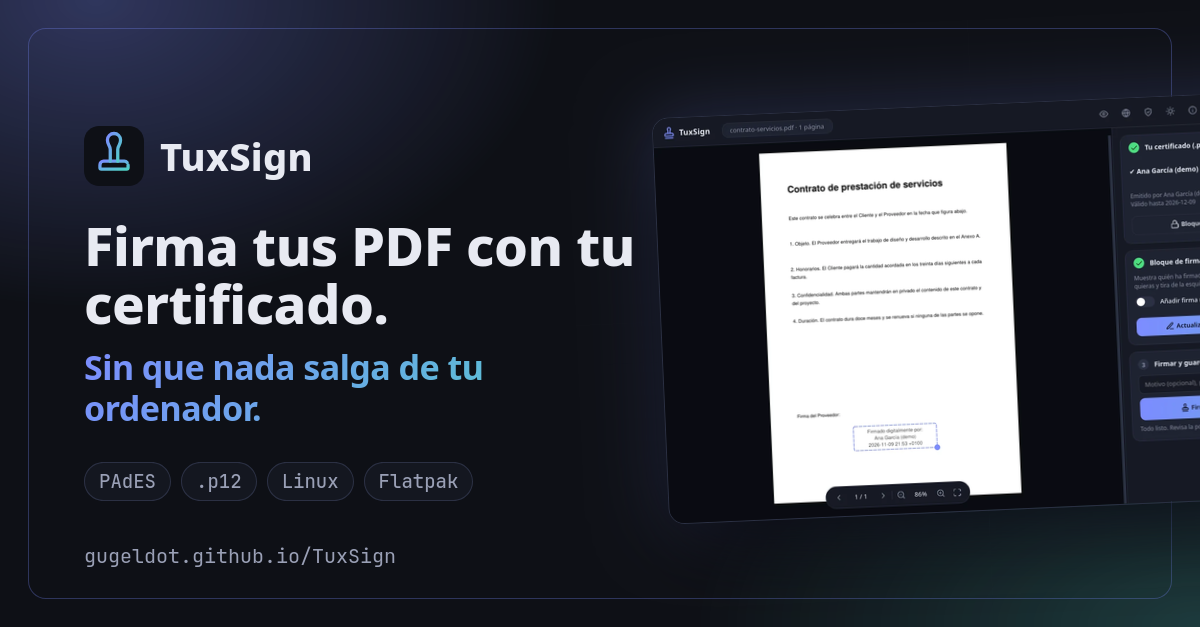
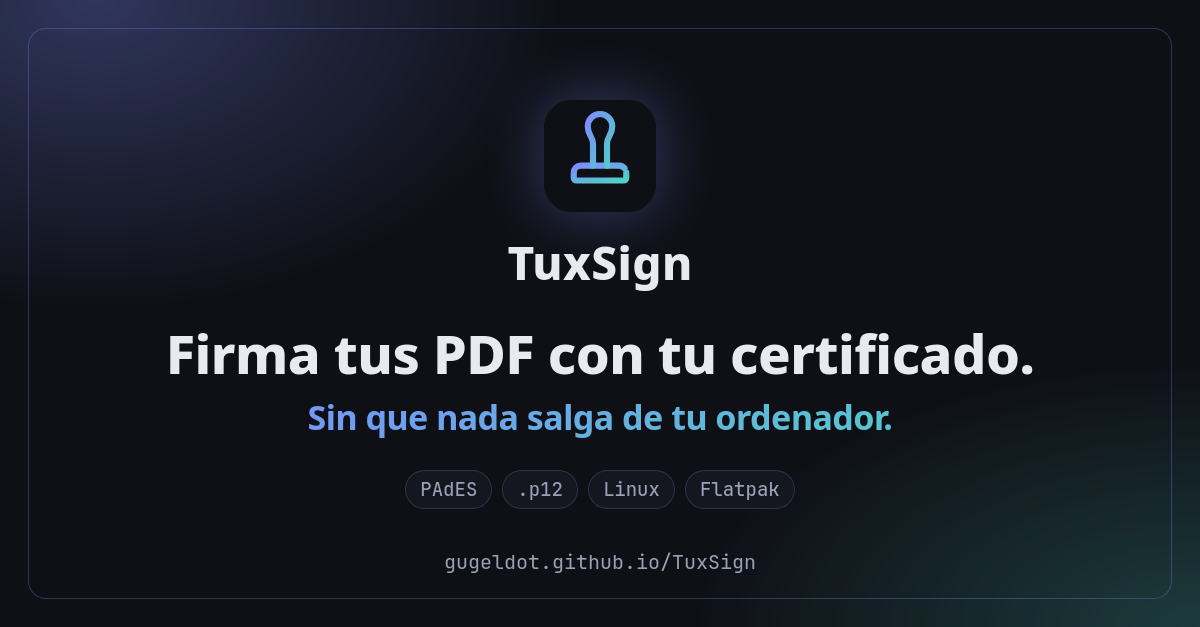
OG image: drop the app screenshot, center the composition

diff --git a/docs/assets/og/src/og-tuxsign.html b/docs/assets/og/src/og-tuxsign.html
@@ -7,23 +7,19 @@ html,body{width:1200px;height:627px;overflow:hidden}
 body{background:var(--bg);color:var(--text);font-family:Inter,'Noto Sans','DejaVu Sans',Arial,sans-serif;position:relative}
 body::before{content:'';position:absolute;inset:0;background:radial-gradient(ellipse 55% 70% at 8% 0%,rgba(124,140,255,.30),transparent 70%),radial-gradient(ellipse 60% 60% at 100% 100%,rgba(79,209,197,.22),transparent 70%)}
 body::after{content:'';position:absolute;inset:28px;border:1px solid rgba(124,140,255,.30);border-radius:18px}
-.col{position:absolute;z-index:2;left:84px;top:0;bottom:0;width:560px;display:flex;flex-direction:column;justify-content:center}
-.brand{display:flex;align-items:center;gap:16px;font-weight:800;font-size:38px;letter-spacing:.3px;margin-bottom:30px}
-.brand img{width:60px;height:60px;border-radius:15px}
-h1{font-size:54px;line-height:1.08;font-weight:800;letter-spacing:-.5px}
+.col{position:absolute;z-index:2;left:0;right:0;top:0;bottom:0;display:flex;flex-direction:column;align-items:center;justify-content:center;text-align:center;padding-bottom:18px}
+.brand{display:flex;flex-direction:column;align-items:center;gap:18px;font-weight:800;font-size:46px;letter-spacing:.4px;margin-bottom:30px}
+.brand img{width:112px;height:112px;border-radius:28px;box-shadow:0 0 60px rgba(124,140,255,.35)}
+h1{font-size:54px;line-height:1.1;white-space:nowrap;font-weight:800;letter-spacing:-.5px}
 h1 span{display:block;margin-top:14px;font-size:34px;line-height:1.2;font-weight:700;background:linear-gradient(135deg,var(--a),var(--b));-webkit-background-clip:text;background-clip:text;color:transparent}
-.tags{display:flex;gap:10px;margin-top:34px;font-family:'JetBrains Mono','DejaVu Sans Mono',monospace;font-size:19px;color:var(--muted)}
+.tags{display:flex;gap:10px;margin-top:32px;justify-content:center;font-family:'JetBrains Mono','DejaVu Sans Mono',monospace;font-size:19px;color:var(--muted)}
 .tags b{font-weight:500;padding:6px 14px;border:1px solid var(--border);border-radius:999px;background:rgba(22,25,35,.8)}
-.url{position:absolute;z-index:2;left:84px;bottom:58px;font-family:'JetBrains Mono','DejaVu Sans Mono',monospace;font-size:20px;color:var(--muted)}
-/* screenshot of the real app, bleeding off the right edge */
-.shot{position:absolute;z-index:1;left:660px;top:104px;width:640px;height:407px;border-radius:16px;border:1px solid var(--border);overflow:hidden;box-shadow:0 40px 90px -20px rgba(0,0,0,.8),0 0 70px rgba(124,140,255,.22);transform:rotate(-2.5deg)}
-.shot img{display:block;width:100%;height:100%;object-fit:cover;object-position:left top}
+.url{position:absolute;z-index:2;left:0;right:0;text-align:center;bottom:52px;font-family:'JetBrains Mono','DejaVu Sans Mono',monospace;font-size:20px;color:var(--muted)}
 </style></head><body>
 <div class="col">
   <div class="brand"><img src="../../favicon.svg" alt="">TuxSign</div>
   <h1>Firma tus PDF con tu certificado.<span>Sin que nada salga de tu ordenador.</span></h1>
   <div class="tags"><b>PAdES</b><b>.p12</b><b>Linux</b><b>Flatpak</b></div>
 </div>
-<div class="shot"><img src="../../block-es-dark.webp" alt=""></div>
 <div class="url">gugeldot.github.io/TuxSign</div>
 </body></html>

diff --git a/docs/index.html b/docs/index.html
@@ -23,7 +23,7 @@
   <meta property="og:image:type" content="image/png">
   <meta property="og:image:width" content="1200">
   <meta property="og:image:height" content="627">
-  <meta property="og:image:alt" content="TuxSign: firma tus PDF con tu certificado, sin que nada salga de tu ordenador. Captura de la aplicación con un contrato y su bloque de firma.">
+  <meta property="og:image:alt" content="TuxSign: firma tus PDF con tu certificado, sin que nada salga de tu ordenador.">
   <meta property="og:locale" content="es_ES">
   <meta property="og:locale:alternate" content="en_US">
   <meta property="og:locale:alternate" content="fr_FR">
